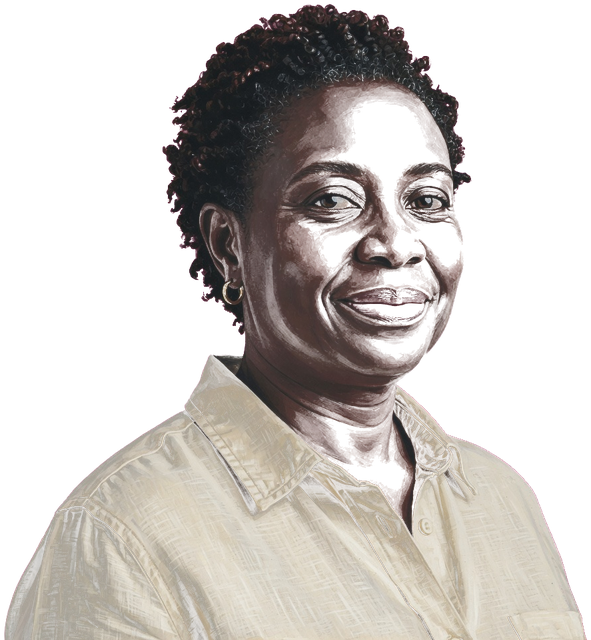
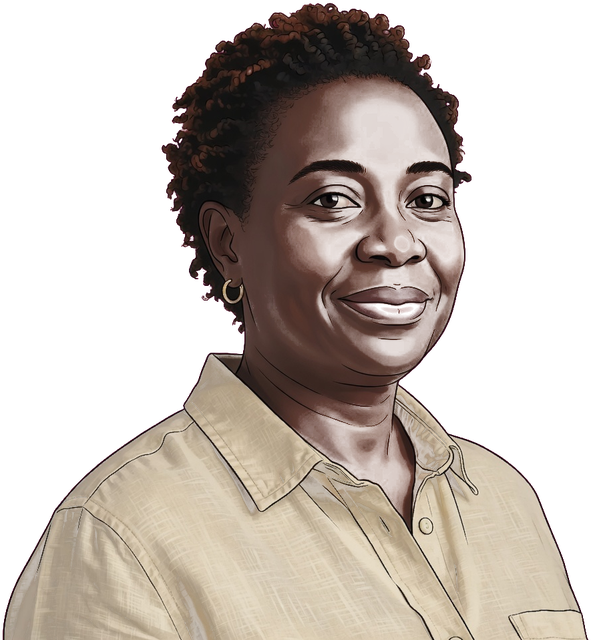
Fish Tank: cartoon caretakers with a talking frame.

diff --git a/games/fish-tank/tank.js b/games/fish-tank/tank.js
@@ -2922,7 +2922,7 @@
     const face = KEEPERS[info.id] || KEEPERS.mara;
     const pic = document.getElementById("keeperPic");
     const label = document.getElementById("keeperLabel");
-    if (pic) { pic.src = "./assets/keepers/" + face.id + ".png"; pic.alt = face.name; }
+    if (pic) { pic.alt = face.name; pic.setAttribute("data-keeper", face.id); }
     if (label) label.textContent = info.name || face.name;
   }
   function keeperSay(text, force) {
@@ -2989,7 +2989,7 @@
     if (!box || !perks) return;
     box.innerHTML = Object.keys(KEEPERS).map(function (id) {
       const k = KEEPERS[id];
-      return "<button type='button' class='keeper-card" + (menuKeeper === id ? " on" : "") + "' data-keeper='" + id + "'><img src='./assets/keepers/" + id + ".png' alt='" + k.name + "'><b>" + k.name + "</b><span>" + k.tag + "</span></button>";
+      return "<button type='button' class='keeper-card" + (menuKeeper === id ? " on" : "") + "' data-keeper='" + id + "'><img data-keeper='" + id + "' src='./assets/keepers/" + id + ".png' alt='" + k.name + "'><b>" + k.name + "</b><span>" + k.tag + "</span></button>";
     }).join("");
     perks.innerHTML = PERKS.map(function (p) {
       const on = menuPerks.indexOf(p.id) >= 0;
@@ -3001,7 +3001,7 @@
       return p ? "<li><b>" + p.name + "</b> — " + p.text + "</li>" : "";
     }).join("");
     if (sheet) {
-      sheet.innerHTML = "<img src='./assets/keepers/" + face.id + ".png' alt='" + face.name + "'>" +
+      sheet.innerHTML = "<img class='keeper-face' data-keeper='" + face.id + "' src='./assets/keepers/" + face.id + ".png' alt='" + face.name + "'>" +
         "<div><p class='rpg-tag'>" + face.tag + "</p><h2>" + face.name + "</h2>" +
         "<p class='char-bio'>" + face.bio + "</p>" +
         "<ul class='rpg-gifts'>" + (gifts || "<li>No gifts yet. Choose three below.</li>") + "</ul></div>";
@@ -3009,8 +3009,26 @@
     const note = document.getElementById("perkNote");
     if (note) note.textContent = menuPerks.length === 3 ? "Three gifts on the card." : ("Choose " + (3 - menuPerks.length) + " more.");
   }
+  function keeperSrc(id, now) {
+    const bubble = document.getElementById("keeperBubble");
+    const talking = bubble && !bubble.classList.contains("hidden");
+    const beat = talking ? (Math.floor(now / 170) % 2 === 1) : (Math.floor(now / 420) % 8 === 0);
+    return "./assets/keepers/" + id + (beat ? "_talk.png" : ".png");
+  }
+  function keeperAnim(now) {
+    const liveId = (playing && state) ? keeperInfo().id : menuKeeper;
+    document.querySelectorAll("img[data-keeper]").forEach(function (img) {
+      const id = img.getAttribute("data-keeper") || liveId;
+      if (id !== liveId && img.id !== "keeperPic") return;
+      const src = keeperSrc(img.id === "keeperPic" ? liveId : id, now);
+      if (img.getAttribute("data-src") !== src) {
+        img.src = src;
+        img.setAttribute("data-src", src);
+      }
+    });
+  }
   function loop(t) {
-    if (!playing || !state) { syncLoops(); requestAnimationFrame(loop); return; }
+    if (!playing || !state) { keeperAnim(Date.now()); syncLoops(); requestAnimationFrame(loop); return; }
     const dt = Math.min(0.05, (t - last) / 1000);
     last = t;
     const now = Date.now();
@@ -3078,6 +3096,7 @@
     resize();
     draw();
     syncLoops();
+    keeperAnim(now);
     keeperPulse(now);
     requestAnimationFrame(loop);
   }

diff --git a/games/fish-tank/index.html b/games/fish-tank/index.html
@@ -271,6 +271,6 @@
 </div>
 <script src="/games/arcade-ledger.js?v=4"></script>
 <script src="./radio.js?v=1"></script>
-<script src="./tank.js?v=34"></script>
+<script src="./tank.js?v=35"></script>
 </body>
 </html>
